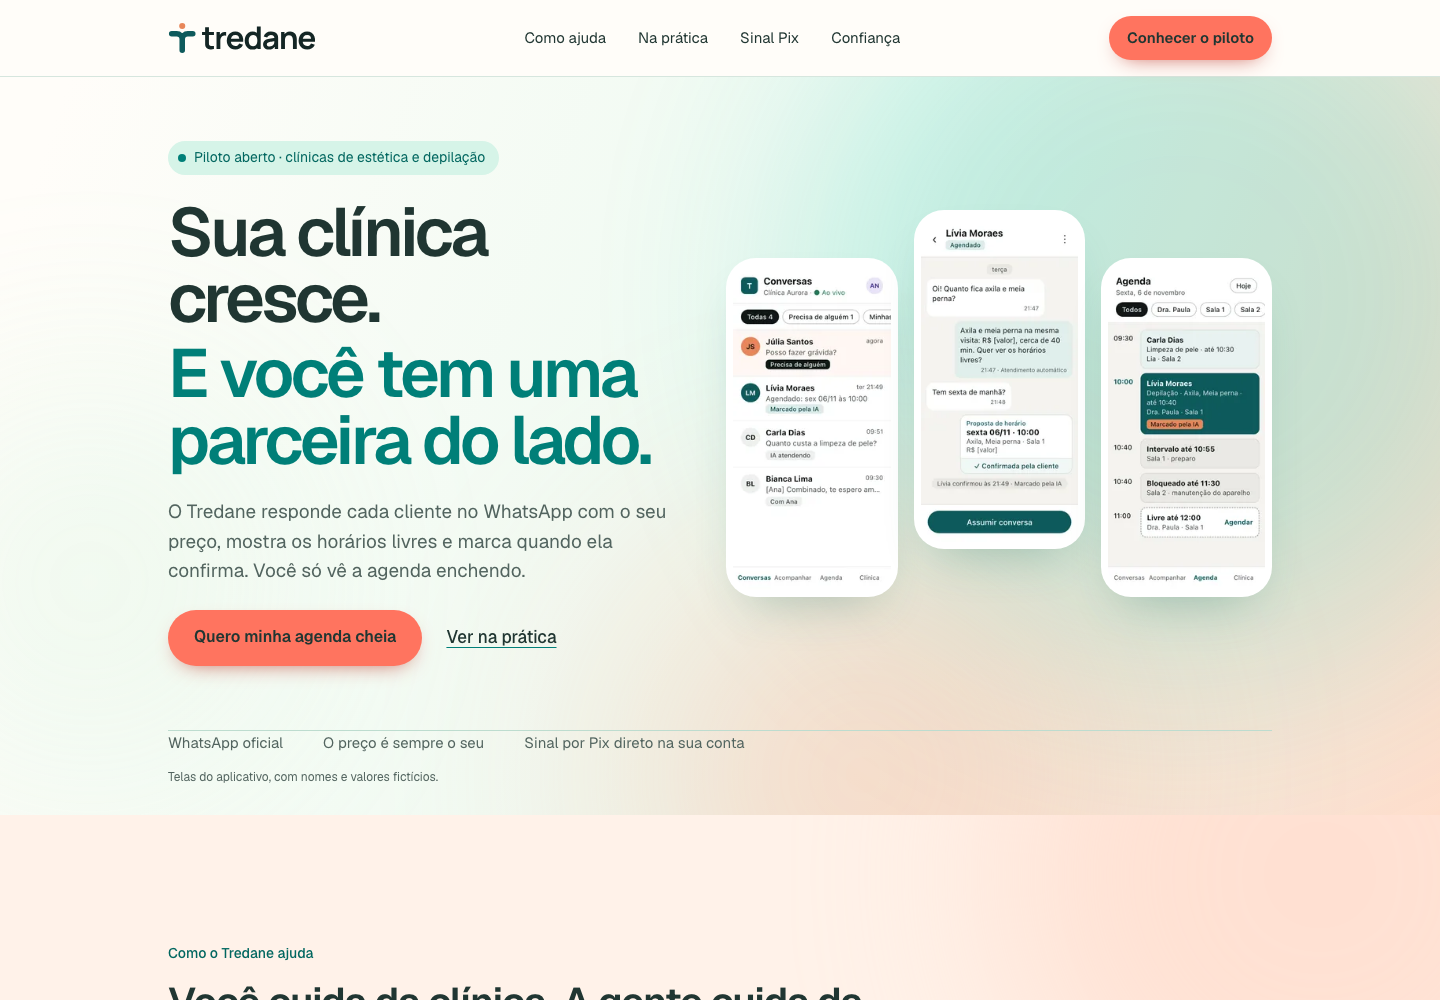
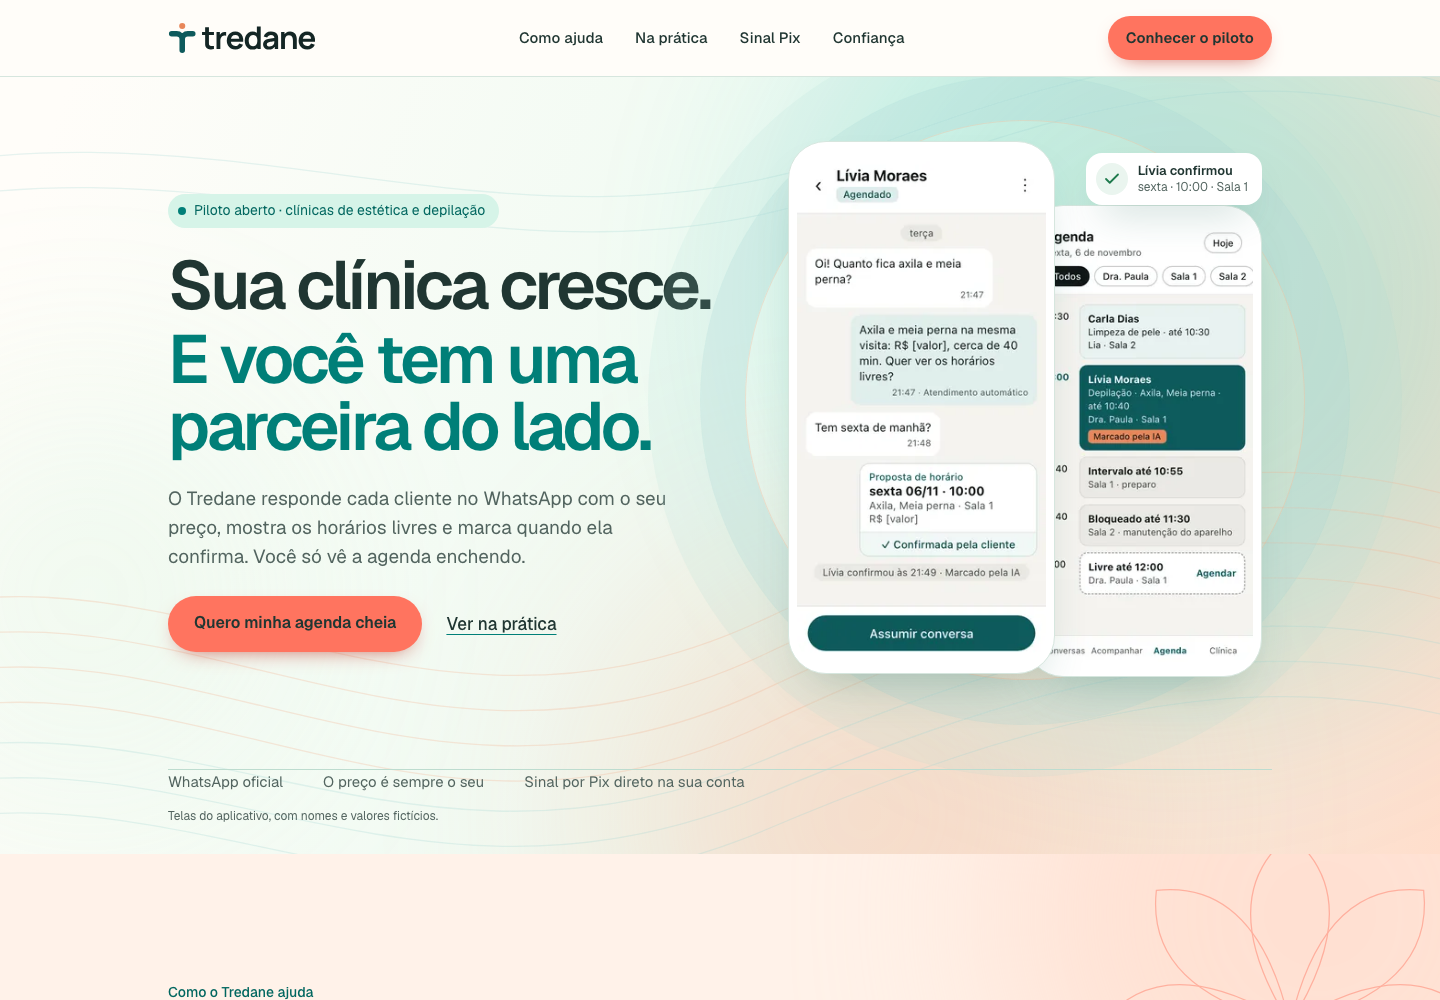
fix(site): preserva composição atual e valida publicação

diff --git a/site/src/styles/coral-menta.css b/site/src/styles/coral-menta.css
@@ -30,7 +30,8 @@
 .hero .aurora i:nth-child(3) { background: #B5EDC5; opacity: .15; }
 .btn-apricot { background: #FF745F; color: #203632; box-shadow: 0 8px 22px -12px #C14438; }
 .btn-apricot:hover { background: #FF8D77; }
-.hero-phone { background: #FFFFFF; box-shadow: 0 24px 50px -22px #286B5E55; }
+.stage-phone, .stage-phone.light { background: #FFFFFF; border-color: #D6E6DE; box-shadow: 0 24px 50px -22px #286B5E55; }
+.hero-toast { box-shadow: 0 20px 40px -16px #286B5E55; }
 .glow-corner::before { background: #FFD0BD; opacity: .5; }
 .help { border: 1px solid #D6E6DE; box-shadow: none; }
 .help:nth-child(1) { border-top: 4px solid #27C6B1; }
@@ -39,17 +40,19 @@
 .oi { background: #D6F4E8; color: #00665F; }
 .oi.warm { background: #FFE1D5; color: #A33B2F; }
 .help:nth-child(3) .oi { background: #EEE5FA; color: #685087; }
+.help-feature p { color: #FFFFFF; }
 .bg-dots { background-color: #E4F8EF; background-image: radial-gradient(#007F781A 1px, transparent 1.5px); }
 .story-dark { background: #007F78; border-color: #007F78; }
 .story-dark p,
 .story-dark .story-t { color: #FFFFFF; }
 .mini-slot { background: #00665F; color: #FFFFFF; }
-.pix::before { background: #FFD0BD; }
+.pix-stage::before { background: #FFD0BD; }
 .panel.aurora-panel { background: #007F78; color: #FFFFFF; }
 .panel.aurora-panel .aurora { display: none; }
 .panel.aurora-panel .eyebrow { color: #FFFFFF; }
 .panel.aurora-panel .lead,
 .panel.aurora-panel .feats p { color: #FFFFFF; }
+.panel.aurora-panel .feats li { background: #006E68; }
 .panel.apricot { background: linear-gradient(120deg, #FFB69C, #FF917D); }
 .panel.apricot .orb { background: #FFEBC3; }
 a:focus-visible,

diff --git a/docs/product/decisions.md b/docs/product/decisions.md
@@ -255,8 +255,6 @@ Enquanto essas decisões não estiverem fechadas, é possível demonstrar a jorn
 | DEC-C3 | **Proposto → em progresso** (Paulo aprovou direcção 08/11/2026; engenharia P1 + L1 A-37) | Option-miss só sob obrigação de escolha | Qualquer texto não casado caía em «Não encontrei … nas opções» (zone leftover), mesmo quando a cliente não tentava escolher zona. | Option-miss só quando o turno *tentou* escolher opção do `pending` / catálogo de variantes; senão acto `esclarecer` / `servico_inexistente` (ou confusão DEC-151). Com `pending.slot=horario`, leftover de zona → `esclarecer` sem limpar variante (L1 A-37). | Casa com P1 `DialogueObligation`; formalizar sob #579. |
 | DEC-C4 | **Proposto → em progresso** (Paulo aprovou direcção 08/11/2026; engenharia P1: gate + `DialogueObligation` + stack + `runBookingTurn`) | Contrato `DialogueObligation` + stack de interrupção | Política de turno espalhada em `autobook`/`autodraft`; interrupções (preço, saída, handoff) competem com fillers. | Fatia P1: `classifyCrossCuttingAct` (restart → exit A/B → reject C → ask_info) antes dos fillers; `DialogueObligation` tipada; option-miss só sob escolha (DEC-C3); **stack explícita** (`dialogue-interrupt-stack`) park/pop; `ask_info` mid-funnel realizado no gate (`ask-info-realize`) com resume da mesma obrigação (não limpa variante); autodraft salta `catalogReply` nesse caso; actos decidem, `sayAct` só redige. Formalizar DEC numerada ou issue sob [#579](https://github.com/intentzero/tredane/issues/579). Restante: handoff park cross-turn; confusão DEC-151 no gate; actos de diálogo como política em mais call-sites. | P1 arquitectura em curso; não reabre DEC-061/104/137/147/152. |
 
-| DEC-143 | **Proposto** (recomendação do agente, 06/11/2026; registada a pedido do Paulo, «Sim, registar»; **não** é decisão) | Papéis do texto livre e do Flow no agendamento | Hoje o texto livre e o Flow escolhem zonas e hora e gravam no mesmo quadro (DEC-138, ADR-0016 §1). Cada regra de zona existe duas vezes e há ainda as regras de convivência (Flow aberto e a cliente escreve, Flow abandonado, texto depois de uma oferta). A DEC-137 acumula casos de texto (leitura de 06/11: partícula, zona desconhecida, substituição que suspende o Confirmar, Corrigir que devolve a mesma proposta, hora sem vaga) que o Flow não produz. A cliente vê dois modelos para a mesma tarefa: formulário ou eco «Entendi: … Certo?». Como reduzir a complexidade sem perder quem escreve? | **Proposta:** separar por papel em vez de manter dois caminhos paralelos. (1) O texto livre **entende e pré-preenche**: serviço, zonas citadas, preferência de dia e hora. Não grava escolha final de zona nem de hora. (2) O Flow é **sempre** onde se escolhe: as zonas citadas chegam marcadas no `CheckboxGroup` e a hora pedida, se livre, vem primeiro no `Dropdown`. O Flow faz o papel do eco. (3) Sai a maquinaria de eco do texto livre (Sim/Corrigir, plural leve como escolha, substituição, suspensão do Confirmar). (4) Se o Flow não abrir (mais de 20 variantes, erro do endpoint, cliente sem suporte), o recurso é simples: passar à equipa (DEC-083) ou, no máximo, a lista interactiva. O analisador completo de zonas em texto deixa de ser caminho de escolha. Não muda: só o Confirmar da proposta marca (DEC-061); o LLM não escolhe zona nem hora (DEC-104). **Opções consideradas:** (A) manter os dois caminhos como hoje (DEC-138/DEC-137); (B) esta proposta; (C) só Flow, sem interpretar texto (perde o pré-preenchimento e piora para quem escreve tudo numa frase). **Custos:** quem escreve tudo certo numa frase passa a ter um formulário (um ou dois toques, com pré-preenchimento) em vez de proposta directa; mais dependência do Flow e da Meta. | **Em aberto, decisão do Paulo.** Antes de decidir, medir no staging: (a) que fracção dos pedidos de marcar traz zonas no texto; (b) taxa de abertura e de conclusão do Flow quando enviado; (c) quantas vezes o Flow não abre. Se for confirmada, revê a DEC-137 (eco e botões Sim/Corrigir no texto livre), a frase «o texto livre continua e preenche o mesmo quadro» da DEC-138 e da [ADR-0016](../adr/0016-whatsapp-flow-agendamento.md) §1 e §9, e a parte de texto livre da DEC-135. Bloqueia apenas novo trabalho de casos de zona em texto livre (#508, #509, #511, #512), não o Flow (#514). Até lá, DEC-137 e DEC-138 continuam a valer. **Instrumentação (06/11/2026):** (a) `ai.turn_decided` ganha `variantsChanged`, `pendingSlotBefore` e `zonesAskedBefore` (o quadro anterior só esperava as zonas; `variantsChanged` com `zonesAskedBefore = false` são zonas escritas sem lhas pedirem; só ids e nomes de campo, sem texto) e passa a preencher `slotsFilled`; (b) coluna `opened_at` em `whatsapp_flow_tokens` (migração D1 0019), gravada na primeira chamada da Meta ao endpoint, e `node scripts/flow-funnel.mjs staging <tenant> [YYYY-MM-DD]` para enviados, abertos, concluídos, substituídos e expirados; (c) log `whatsapp_flow.offer_skipped` com o motivo quando o Flow não sai e o turno volta ao M5. Por verificar no staging: a sonda de 05/11 não viu `ai.turn_decided` no `wrangler tail`, embora o evento faça `console.log` no Durable Object do mesmo worker. O staging mede o mecanismo, não o comportamento de clientes: para isso, teste com pessoas de fora da equipa ou contagem pela clínica piloto. |
-
 ## Revisão visual da DEC-044 — landing Coral & Menta (16/11/2026)
 
 **Confirmado:** Paulo aprovou o mock com «gosto, implementa», após pedir uma paleta mais vibrante e alegre para saúde e beleza. Escolha: coral nas ações, turquesa nos destaques e na seção de confiança, fundos claros menta/pêssego e marca existente para fundo claro. Substitui a paleta Aurora Petróleo aprovada em 05/11/2026 apenas na landing; alternativa considerada: manter a paleta atual, comparada no mesmo mock. Motivo: preferência visual expressa pelo responsável. Não altera a marca ou os tokens do painel, o conteúdo comercial nem o MVP. [Especificação, cores e critérios](landing.md#exploração-de-paleta-coral--menta--16112026). Aprovação visual não é publicação; os gates existentes permanecem.

diff --git a/docs/product/landing.md b/docs/product/landing.md
@@ -117,7 +117,9 @@ A paleta aprovada usa coral `#FF745F` nas ações, turquesa `#007F78` nos destaq
 
 O mock conserva estrutura, copy, fonte Geist, símbolo da marca e imagens ilustrativas da implementação local. Usa a versão existente da marca para fundo claro; os telefones recebem moldura branca. A barra de comparação não faz parte da landing. O snapshot é autocontido, tem `noindex`, suspende animações para comparar as cores e impede a abertura de canais comerciais. Os marcadores comerciais já existentes permanecem visíveis; não representam condições definidas.
 
-**Confirmado:** implementar esta paleta em `site/`, substituindo a abertura Aurora Petróleo e os fundos de 05/11/2026. Esta revisão da DEC-044 permite cores próprias da landing; os tokens do painel, o escopo do MVP e os gates comerciais/de publicação permanecem os mesmos. As animações e interações existentes continuam no site; a barra Atual/Proposta fica somente no mock. **Em aberto:** publicação. Critérios desta revisão: comparar as duas paletas, manter o conteúdo, verificar contraste de texto e ausência de rolagem horizontal em 360, 390 e 1440 px. Ver instruções e evidência em [README do mock](../design/landing/paleta-viva/README.md).
+**Confirmado:** implementar esta paleta em `site/`, substituindo a abertura Aurora Petróleo e os fundos de 05/11/2026. Esta revisão da DEC-044 permite cores próprias da landing; os tokens do painel, o escopo do MVP e os gates comerciais/de publicação permanecem os mesmos. As animações e interações existentes continuam no site; a barra Atual/Proposta fica somente no mock. **Confirmado (Paulo, 16/11/2026, «publica»):** publicar esta revisão em produção após os checks. Publicação ainda pendente de execução. Critérios desta revisão: comparar as duas paletas, manter o conteúdo, verificar contraste de texto e ausência de rolagem horizontal em 360, 390 e 1440 px. Ver instruções e evidência em [README do mock](../design/landing/paleta-viva/README.md).
+
+**Integração com main (16/11/2026):** a publicação preserva a composição de 13/11/2026 (conversa e agenda na abertura, cartão de ajuda ampliado e Conversas na seção da equipe), aplicando nela as cores aprovadas. O mock comparativo permanece como registro da base anterior; os previews `implementado-*` mostram a integração atual.
 
 **Implementado localmente em 16/11/2026:** paleta em `site/src/styles/coral-menta.css`, marca para fundo claro e cor do navegador atualizadas. `astro check` e `build:staging` passaram. Sem overflow ou violações axe em 360/390/1440 px, incluindo verificação das cenas animadas em desktop. [Previews e evidência](../design/landing/paleta-viva/README.md#implementação-aprovada). Publicação, Lighthouse e validação manual completa com leitor de tela continuam **Em aberto**.
 

diff --git a/docs/design/landing/paleta-viva/README.md b/docs/design/landing/paleta-viva/README.md
@@ -28,3 +28,5 @@ As imagens do aplicativo e os marcadores comerciais são os existentes na landin
 **Confirmado como execução local (16/11/2026):** `site/src/styles/coral-menta.css` aplica a paleta aprovada; `Base.astro` importa a paleta e atualiza a cor do navegador; `index.astro` usa a versão existente da marca para fundo claro. Header fixo, hover, foco, animações, redução de movimento, âncoras e FAQ foram mantidos. Páginas legais recebem os novos neutros e links.
 
 **Verificado:** `astro check` com 0 erros/avisos; `build:staging` concluído; Chromium em 360/390/1440 px sem overflow, erros JavaScript ou violações axe (WCAG 2 A/AA, 2.1 AA e 2.2 AA). Cenas animadas da abertura, conversa, Pix, confiança e piloto sem violações detectadas em desktop; modo sem JavaScript mantém título e cartões visíveis; página de privacidade sem violações axe WCAG 2 A/AA. FAQ abre nas três larguras. Evidência: [registro](validacao.json), [desktop implementado](previews/implementado-desktop.png), [mobile implementado](previews/implementado-celular.png). Publicação e Lighthouse permanecem **Em aberto**.
+
+**Preparação para publicação (16/11/2026):** Paulo autorizou «publica». A branch foi atualizada sobre a base de `main` `92f9dbac`, preservando a composição de 13/11. A paleta foi estendida às molduras `.stage-phone`, ao cartão de ajuda ampliado e aos cartões de confiança; contraste revalidado sem violações nas três larguras e nas cenas animadas. `astro check` e `build:production` passaram. Os previews `implementado-*` foram atualizados para essa composição; o mock comparativo mantém a referência original.
